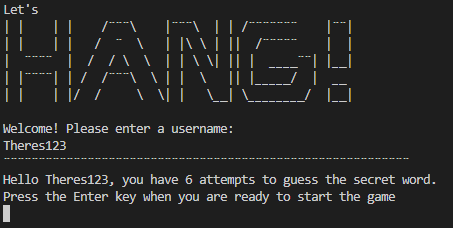
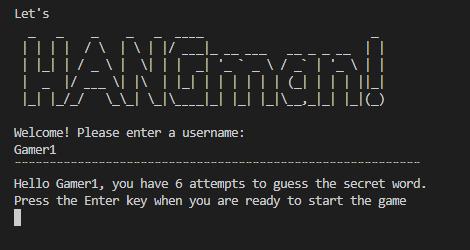
Add more screenshots and text to README file

Changed region(s): [[0.0, 0.4912, 0.9581, 0.9825], [0.0, 0.0, 0.8344, 0.4605]]

diff --git a/run.py b/run.py
@@ -18,11 +18,11 @@ def username():
     username = " "
     while True:
         print("Let's")
-        print("| |    | |    /¨¨¨\    |¨¨¨\  | | /¨¨¨¨¨¨¨    |¨¨|")
-        print("| |    | |   /  ¨  \   | |\ \ | ||  /¨¨¨¨¨    |  |")
-        print("|  ¨¨¨¨  |  /  / \  \  | | \ \| || |  ____¨¨| |__|")
-        print("| |¨¨¨¨| | /  /¨¨¨\  \ | |  \   || |_____/  |  __")
-        print("| |    | |/  /     \  \| |   \__| \________/  |__|")
+        print("  _   _    _    _   _  ____                        _ ")
+        print(" | | | |  / \  | \ | |/ ___|_ __ ___   __ _ _ __  | |")
+        print(" | |_| | / _ \ |  \| | |  _| '_ ` _ \ / _` | '_ \ | | ")
+        print(" |  _  |/ ___ \| |\  | |_| | | | | | | (_| | | | ||_|")
+        print(" |_| |_/_/   \_\_| \_|\____|_| |_| |_|\__,_|_| |_|(_)")
         print()
         username = input("Welcome! Please enter a username: \n")
         # if username is not alphanumeric
@@ -92,7 +92,12 @@ def play_game():
         # show correctly guessed letters in word otherwise hide letters with *
         word_list = [letter if letter in guessed_letters else "*" for letter
                      in word]
-        print("The current word is: ", " ".join(word_list))
+        print("                       _   _         ")
+        print("__      _____  _ __ __| | (_)___   _ ")
+        print("\ \ /\ / / _ \| '__/ _` | | / __| (_)")
+        print(" \ V  V / (_) | | | (_| | | \__ \  _  ", " ".join(word_list))
+        print("  \_/\_/ \___/|_|  \__,_| |_|___/ (_)")
+        print()
         print()
 
         user_input = input("Guess a letter: \n").upper()
@@ -124,18 +129,26 @@ def play_game():
 
     # while loop ends here when letters_in_words == 0 or attempts == 0.
     if attempts == 0:
-        print("::::::::::::::::::::::::::::::::::::::::::::::::::::::::::::::")
-        print("Oh no! Your out of attempts. The word was", word)
-        print("::::::::::::::::::::::::::::::::::::::::::::::::::::::::::::::")
+        print("   ___  _                   _ ")
+        print("  / _ \| |__    _ __   ___ | |")
+        print(" | | | | '_ \  | '_ \ / _ \| |")
+        print(" | |_| | | | | | | | | (_) |_|")
+        print("  \___/|_| |_| |_| |_|\___/(_)")
+        print()
+        print("You are out of attempts")
+        print()
 
     else:
         # if user guesses the word, then print:
         global score
         score += 100
-        print("¨¨¨¨¨¨¨¨¨¨¨¨¨¨¨¨¨¨¨¨¨¨¨¨¨¨¨¨¨¨¨¨¨¨¨¨¨¨¨¨¨¨¨¨¨¨¨¨¨¨¨¨¨¨¨¨¨¨¨¨")
-        print("                    Congratulations!                        ")
-        print("¨¨¨¨¨¨¨¨¨¨¨¨¨¨¨¨¨¨¨¨¨¨¨¨¨¨¨¨¨¨¨¨¨¨¨¨¨¨¨¨¨¨¨¨¨¨¨¨¨¨¨¨¨¨¨¨¨¨¨¨")
-        print("             The secret word was", word,)
+        print(" __        ___                        _ ")
+        print(" \ \      / (_)_ __  _ __   ___ _ __ | |")
+        print("  \ \ /\ / /| | '_ \| '_ \ / _ \ '__|| |")
+        print("   \ V  V / | | | | | | | |  __/ |   |_|")
+        print("    \_/\_/  |_|_| |_|_| |_|\___|_|   (_)")
+        print()
+        print("       The secret word was", word,)
         print()
         return score
 
@@ -150,13 +163,14 @@ if __name__ == "__main__":
         if question.lower() == "n":
             clear()
             print("Thank you for playing")
-            print("| |    | |    /¨¨¨\    |¨¨¨\  | | /¨¨¨¨¨¨¨        |¨¨|")
-            print("| |    | |   /  ¨  \   | |\ \ | ||  /¨¨¨¨¨        |  |")
-            print("|  ¨¨¨¨  |  /  / \  \  | | \ \| || |  ____¨¨|     |__|")
-            print("| |¨¨¨¨| | /  /¨¨¨\  \ | |  \   || |_____/  |      __")
-            print("| |    | |/  /     \  \| |   \__| \________/ -MAN |__|")
+            print("  _   _    _    _   _  ____                        _ ")
+            print(" | | | |  / \  | \ | |/ ___|_ __ ___   __ _ _ __  | |")
+            print(" | |_| | / _ \ |  \| | |  _| '_ ` _ \ / _` | '_ \ | | ")
+            print(" |  _  |/ ___ \| |\  | |_| | | | | | | (_| | | | ||_|")
+            print(" |_| |_/_/   \_\_| \_|\____|_| |_| |_|\__,_|_| |_|(_)")
             print()
             print(f":::: You scored: {score} points ::::")
+            print()
             break
         elif question.lower() != "y":
             clear()

diff --git a/README.md b/README.md
@@ -25,7 +25,7 @@ exits the game.
  game will restart and the score will continue count as the game proceeds.
  * To read more about the traditional game of hangman, you can visit [this wikipedia page](https://en.wikipedia.org/wiki/Hangman_(game)).
 
- <img width="400" src="documentation/main.png"><img width="600" src="documentation/start-game.png">
+ <img width="400" src="documentation/main.png"><img width="500" src="documentation/start-game.png">
 
  ---
 
@@ -33,7 +33,7 @@ exits the game.
 
 ### **Main game page**
 
-* User's is greeted by a big pattern saying "Let's hang!" with a welcome message instructing them to input a username.
+* User's is greeted by a big pattern saying "Let's HANGman!" with a welcome message instructing them to input a username.
 * The instructions for the game appears in the terminal after the user has choosen a username.
 * The game will start as soon as the user presses the enter key.  
 
@@ -56,7 +56,7 @@ exits the game.
   
 <img width="500" src="documentation/correct-word.png">
 
-### **Input letters**
+### **Input validation of letters**
 
 * Used letters is stored and visual to the user at the top of the right corner.
 * If user passes the same letter twice, invalid characters, or a letter that is not in the word an  
@@ -65,53 +65,42 @@ message appears at the top of the page to give the user feedback.
 <img width="400" src="documentation/letter-used.png"><img width="380" src="documentation/invalid-character.png">  
 <img width="400" src="documentation/letter-not-in-word.png">
 
-### **The contact section**
+### **If user wins**
 
-* The contact section provides the user with location to join The Yoga Studio.
-* This section also gives user contact information to call or email.
-* The page matches the colors from about section with same box style.
+* If the user can guess all letters in the word, the terminal clears and a congratulations message appears in the window.
+* 100 points is added to users score.
+* User get the option to restart game or end game.
 
-<img width="1000" src="documentation/contact.png">
+<img width="500" src="documentation/win.png">
 
-### **The footer section**
-* The footer section is linked with all social media platforms the studio is connected to.
-* The page links to facebook, instagram, twitter and youtube and opens i new tabs when clicked.
-* The colors from the header at the top, matches the colors in this section at the bottom of page - to create a nice frame to page.
+### **If user runs out of attempts**
 
-<img width="1000" src="documentation/social-media.png">
+* If user runs out of attempts the terminal clears and a message appears like down below
+* User gets the option to restart or to end game.
 
-## **Blog page**
+<img width="500" src="documentation/loose-screen.png">
 
-### **Blog preview**
+### **Scores**
 
-* The blog navigation link from the home page redirects user to the blog page.
-* In the blog main page a preview of three blog posts can be seen, the whole area round the previews is clickable and redirects users to the full blog posts in other pages.
-* The blog preview page is arrenged to fit in with colors from the home page.
-* The magnifying glas icon is used to hint to users that the area is a clickable link that will redirect them.
+* User can only win points by guessing the secret word before attempts run out
+* User earns 100 points for every time they manage to guess the word 
+* User can never loose points
+* Total score is shown when user enters "n" and descides to end game
 
-<img width="1000" src="documentation/blog-main.png">
-
-### **Full blog post pages**
-
-* The full blog post pages is color indentical to its parent blog page - the blog preview page.
-
-<img width="1000" src="documentation/full-blog-post.png">
-
-## **Gallery**
-
-* Matching photos is combined in one page to give inspiration to users.
-* The gallery is responsive and changes from 4 columns - to three - to two and lastly to one in small devices.
-
-<img width="1000" src="documentation/gallery.png">
+<img width="500" src="documentation/score.png">
 
 ---
 
 ## **Testing**
 
-* I tested that the page works in diffrent browsers such as Chrome, firefox and Microsoft Edge.
-* I confirmed that this project is responsive, looks good and functions on all standard screen sizes using the devtools device toolbar.
-* I confirmed that the header, navigation, main, about us, reviews, footer, gallery and blog pages text are all readable and easy to understand.
-* I have confirmed that the links between diffrent pages work and are accessible.
+I have manually tested this project by doing the following:
+
+* I tested and found no errors in the gitpod terminal after installing pycodestyle due to PEP8 website being down.
+* I tested that the inputs only allows expected characters and trows error when unexpected characters is used.
+* Remining is 55 warnings due to the pattern writing im using for the main- and other logos and 3 warnings that followed  
+with the Code Institute template that we students were instructed to ignore.  
+
+<img width="500" src="documentation/warnings.png">
 
 ## **Bugs**
 
